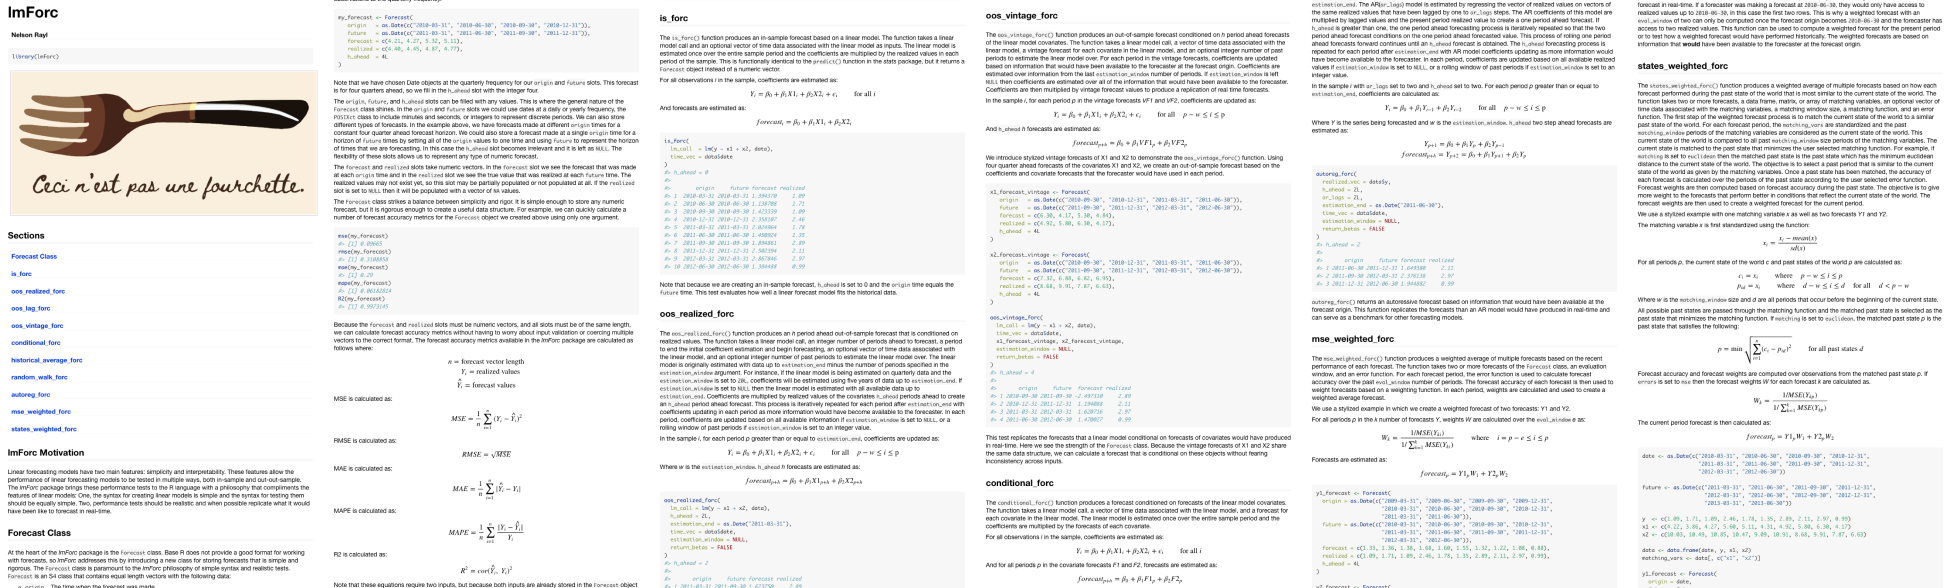
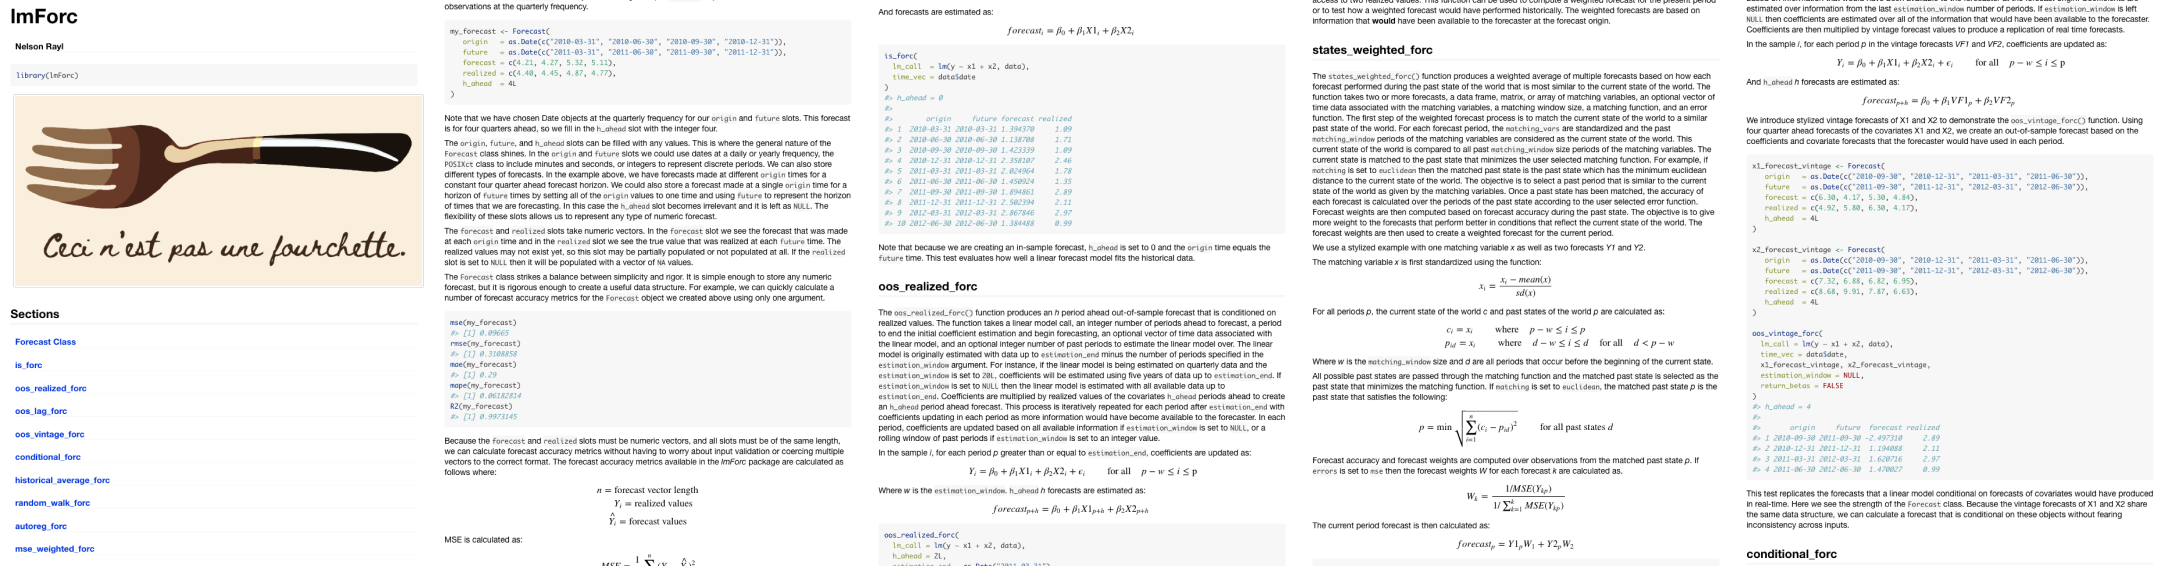
v0.1.0

diff --git a/README.md b/README.md
@@ -30,7 +30,7 @@ For an overview of the *lmForc* package, please read the vignette:
 [lmForc
 Vignette](https://cran.r-project.org/web/packages/lmForc/vignettes/lmForc.html)
 
-<a href='https://cran.r-project.org/web/packages/lmForc/vignettes/lmForc.html'><img src='/vignettes/vignette_demo.png' align="center" height="250" /></a>
+<a href='https://cran.r-project.org/web/packages/lmForc/vignettes/lmForc.html'><img src='/vignettes/vignette_demo.png' align="center" height="220" /></a>
 
 ## Installation
 
